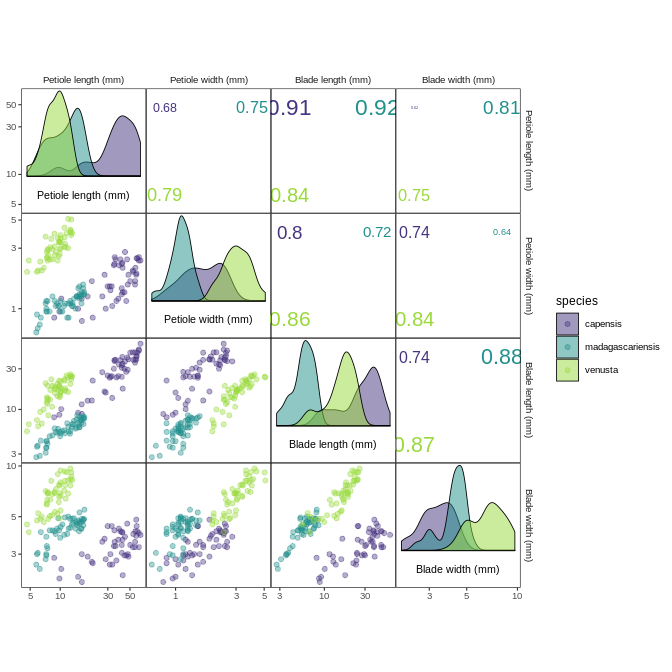
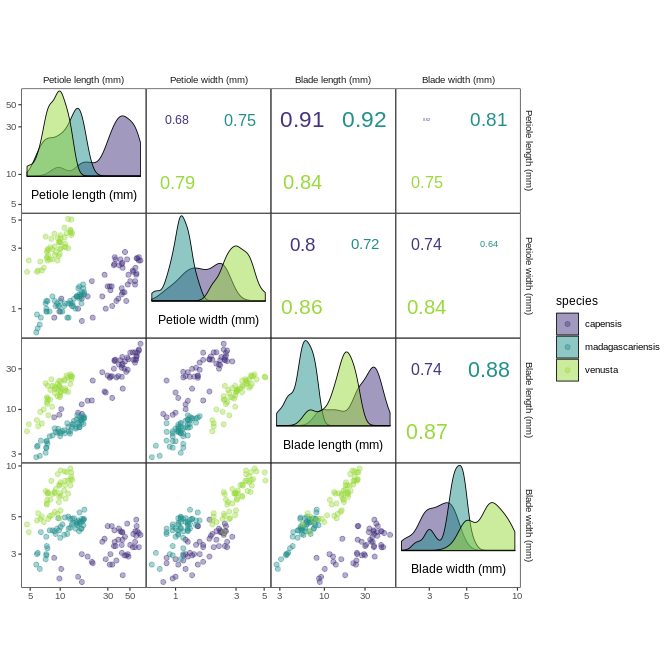
Re-run README with most recent version of corrmorant
* Rescaling stopped being the default behavior!

diff --git a/README.md b/README.md
@@ -99,7 +99,6 @@ library(corrmorant)
 # create plot
 ggcorrm(drosera,                                 # dataset
         aes(color = species, fill = species),    # settings of non-standard aesthetics: color and fill by species
-        rescale = "as_is",                       # no rescaling
         labels = paste(str_to_sentence(gsub("_", " ", names(drosera)[3:6])), "(mm)")) + # labels for variable names
   lotri(geom_point(alpha = 0.4)) +               # points in lower triangle 
   utri_corrtext() +                              # indicator of (Pearson) correlation in upper triangle
@@ -123,8 +122,7 @@ The patterns become even clearer when assessed on a log scale:
 ggcorrm(
   drosera,
   aes(color = species, fill = species),   
-  labels = paste(str_to_sentence(gsub("_", " ", names(drosera)[3:6])), "(mm)"),
-  rescale = "as_is") + 
+  labels = paste(str_to_sentence(gsub("_", " ", names(drosera)[3:6])), "(mm)")) + 
   lotri(geom_point(alpha = 0.4)) +              
   utri_corrtext() +                              
   dia_density(color = "black", size = .3, alpha = .5) + 
@@ -154,7 +152,6 @@ pfun <- function(data){
     bg_lotri = "grey40",
     bg_utri  = "grey40",
     labels = paste(str_to_sentence(gsub("_", " ", names(drosera)[3:6]))),
-    rescale = "as_is"
   ) + 
     lotri(geom_smooth(alpha = .3, method = "lm", size = .35)) +
     lotri(geom_point(alpha = .65)) +              
